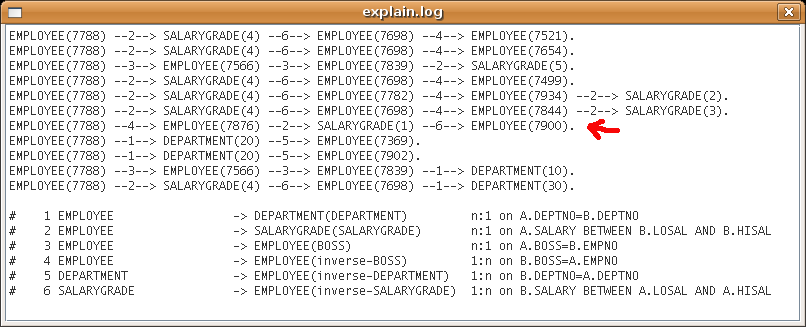
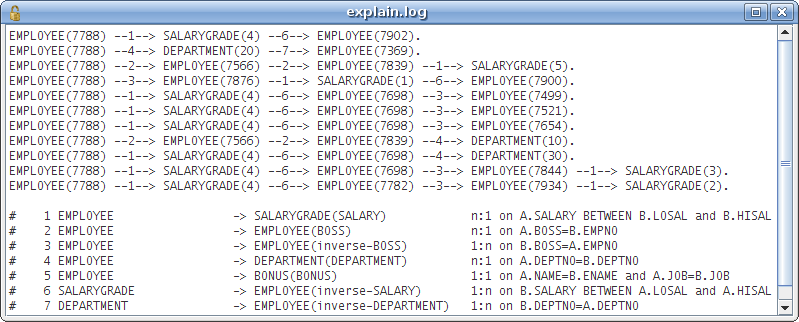
0

diff --git a/doc/web/exporting-data.htm b/doc/web/exporting-data.htm
@@ -140,7 +140,7 @@ on windows platform)<br>
               </tbody>
             </table>
             <br>
-            <img style="width: 304px; height: 119px;"
+            <img 
  src="exporting-data-Dateien/screen1.png"><br>
             </p>
             <p><br>
@@ -153,7 +153,7 @@ the database schema.<br>
             <br>
 Click on<span style="font-style: italic;"> Introspect DB</span><br>
             <br>
-            <img style="width: 529px; height: 258px;"
+            <img 
  src="exporting-data-Dateien/screen2.png"><br>
             <br>
             <br>
@@ -165,7 +165,7 @@ Click on<span style="font-style: italic;"> Connect</span><big
  style="font-style: italic;">.</span>
 Jailer finds four tables and two associations:<br>
             <br>
-            <img style="width: 756px; height: 254px;"
+            <img 
  src="exporting-data-Dateien/screen3.png"><br>
             <br>
             <br>
@@ -177,8 +177,10 @@ Add the definitions manually (<big><span style="font-family: monospace;"><span
  style="font-family: mon;"><span style="font-style: italic;">Add</span>-</span></span></big>Button
 under <big><span style="font-family: monospace;"><font size="4">Associations</font></span></big>):<br>
             <br>
-            <img style="width: 484px; height: 217px;"
+            <img 
  src="exporting-data-Dateien/screen4.png"><br>
+            <br><img 
+ src="exporting-data-Dateien/screen42.png"><br>
             <br>
 Note that Jailer now knows more about the data model than the DBMS.<br>
             <br>
@@ -193,7 +195,7 @@ as table to extract from and type <span style="font-family: monospace;">NAME</sp
  style="font-family: monospace;"><font size="4">='SCOTT'</font></span></big>
 into the <span style="font-style: italic;">Where</span>-field:<br>
             <br>
-            <img style="width: 739px; height: 322px;"
+            <img 
  src="exporting-data-Dateien/screen8.png"><br>
             <br>
             <br>
@@ -205,9 +207,9 @@ entities associated with these entities and so forth.<br>
 Export this set (<span style="font-style: italic;">Export Data</span>-Button
 or <span style="font-style: italic;">T</span><span
  style="font-style: italic;">ools-&gt;Export Data</span>).
-Jailer first asks for a file name for the new extraction model:<br>
+Jailer first asks for a file name for the new extraction model. Call it <big><span style="font-family: monospace;"><font size="4">scott.csv</font></span></big><br>
             <br>
-            <img style="width: 558px; height: 180px;"
+            <img 
  src="exporting-data-Dateien/screen7.png"><br>
             <br>
             <br>
@@ -217,7 +219,7 @@ generated. <br>
             <br>
 Click on <span style="font-style: italic;">Export Data</span>:<br>
             <br>
-            <img style="width: 783px; height: 481px;"
+            <img 
  src="exporting-data-Dateien/screen9.png"><br>
             <br>
             <br>
@@ -233,16 +235,16 @@ But why are there also statements for all other employees?<br>
             <br>
 Let Jailer explain why:<br>
             <br>
-            <img style="width: 558px; height: 180px;"
+            <img 
  src="exporting-data-Dateien/screen10.png"><br>
             <br>
-            <img style="width: 716px; height: 238px;"
+            <img 
  src="exporting-data-Dateien/screen11.png"><br>
             <br>
             <br>
 Open the <span style="font-family: monospace;">Explain.log</span>:<br>
             <br>
-            <img style="width: 806px; height: 327px;"
+            <img 
  src="exporting-data-Dateien/screen12.png"><br>
             <br>
 Scotts is Adams boss and James and Adams are both classified in the
@@ -264,15 +266,10 @@ subordinates, 'same department'-members and 'same
 salary-grade'-employees, we must restrict some associations. To do so,
 define some <span style="font-style: italic;">restrictions:</span><br>
             <br>
-            <img style="width: 950px; height: 322px;"
+            <img 
  src="exporting-data-Dateien/screen13.png"><br>
             <br>
-            <img style="width: 950px; height: 322px;"
- src="exporting-data-Dateien/screen14.png"><br>
-            <br>
-            <img style="width: 950px; height: 322px;"
- src="exporting-data-Dateien/screen15.png"><br>
-            <br>
+            
             <br>
 The <span style="font-style: italic;">restriction-condition</span> is
 an extension of the associations join-condition (in

diff --git a/doc/web/deleting-data.htm b/doc/web/deleting-data.htm
@@ -108,7 +108,7 @@ from previous
 tutorial. Use <span style="font-style: italic;">Tools-&gt;Export Data</span>
 again and enter <big><span style="font-family: monospace;">delete-scott.sql</span></big>
 as name of delete-script:<br>
-            <p> <img style="width: 558px; height: 180px;"
+            <p> <img 
  src="deleting-data-Dateien/screen17.png"><br>
             </p>
             <p><br>
@@ -175,8 +175,7 @@ remaining data.<br>
 In order to delete Scott, me must delete his subordinate
 too. To do so, relax the restriction on the <span
  style="font-style: italic;">inverse-BOSS</span>-association:
-            <p><img style="width: 939px; height: 323px;"
- src="deleting-data-Dateien/screen18.png"><br>
+            <p><img src="deleting-data-Dateien/screen18.png"><br>
             <br>
             <br>
 and <span style="font-style: italic;">Export Data </span>again:<br>
@@ -263,6 +262,10 @@ Model Editor</span>), select and <span style="font-style: italic;">edit</span>
 table DEPARTMENT and switch <span style="font-style: italic;">exclude
 from deletion</span> on. Do the same with SALARYGRADE.<br>
             <br>
+            <img src="deleting-data-Dateien/screen1.png">
+            <br> <br>
+            <img src="deleting-data-Dateien/screen2.png">
+             <br> <br> <br>
 Repeat exportation. The delete-script now contains only employees.<br>
             <br>
             <table

diff --git a/src/net/sf/jailer/ui/ExtractionModelFrame.java b/src/net/sf/jailer/ui/ExtractionModelFrame.java
@@ -985,7 +985,7 @@ public class ExtractionModelFrame extends javax.swing.JFrame {
 			out = new PrintWriter(new FileOutputStream(associations));
 			out.println("# Table A; Table B; First-insert; Cardinality; Join-condition; Name; Author");
 			out.println("EMPLOYEE; BONUS; ; 1:1; A.NAME=B.ENAME and A.JOB=B.JOB; BONUS; Demo; ; ");
-			out.println("SALARYGRADE; EMPLOYEE; ; 1:n; B.SALARY BETWEEN A.LOSAL and A.HISAL; SALARY; Demo; ; ");
+			out.println("EMPLOYEE; SALARYGRADE; ; n:1; A.SALARY BETWEEN B.LOSAL and B.HISAL; SALARY; Demo; ; ");
 			out.println("EMPLOYEE; DEPARTMENT; B; n:1; A.DEPTNO=B.DEPTNO; DEPARTMENT; Demo; ; ");
 			out.println("EMPLOYEE; EMPLOYEE; B; n:1; A.BOSS=B.EMPNO; BOSS; Demo; ; ");
 			out.close();

diff --git a/src/net/sf/jailer/ui/UIUtil.java b/src/net/sf/jailer/ui/UIUtil.java
@@ -332,7 +332,7 @@ public class UIUtil {
      */
     public static void initPeer() {
     	try {
-			Thread.sleep(100);
+			Thread.sleep(200);
 		} catch (InterruptedException e) {
 		}
     }
